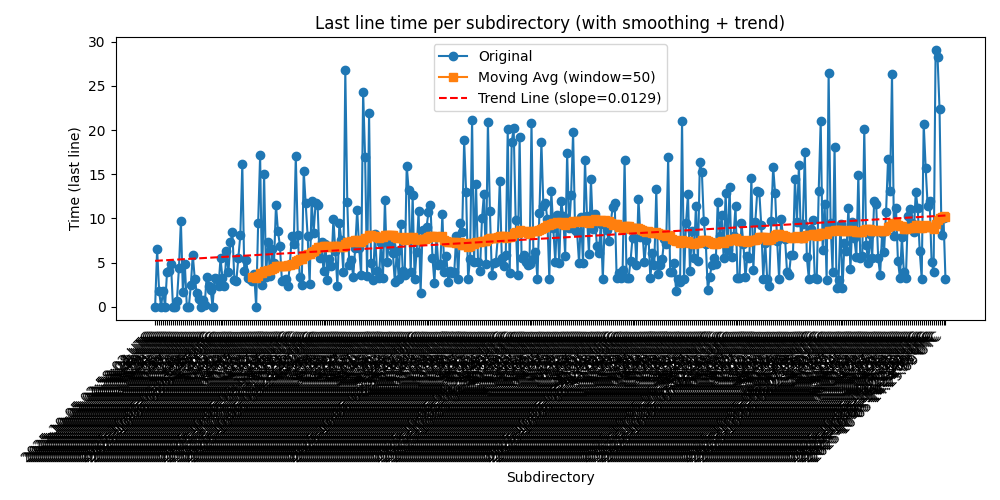
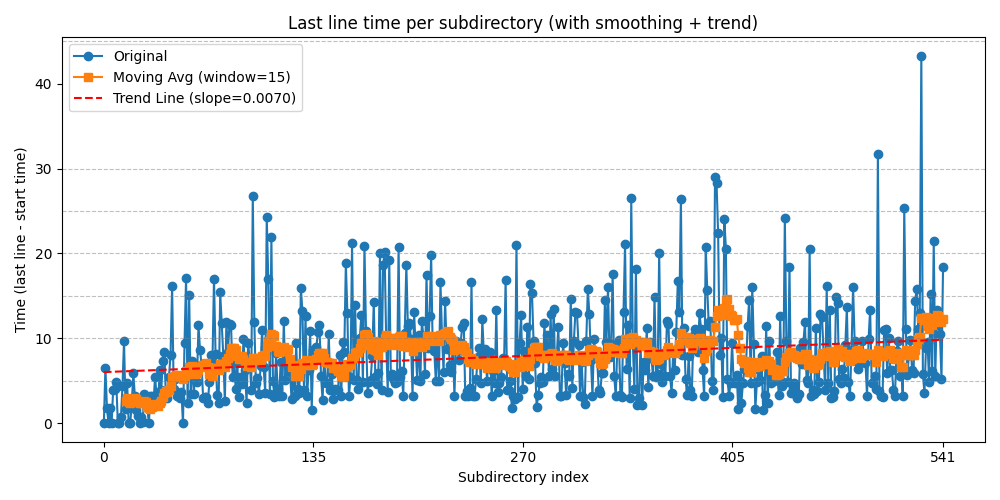
Minor Tweaks

diff --git a/src/graph.py b/src/graph.py
@@ -7,7 +7,6 @@ root_dir = "generated/runs/dataset"
 times = []
 dirs = []
 
-# Get subdirectories sorted by name
 subdirs = sorted([d for d in os.listdir(root_dir) if os.path.isdir(os.path.join(root_dir, d))])
 
 for subdir in subdirs:
@@ -33,33 +32,41 @@ for subdir in subdirs:
             except ValueError:
                 continue
 
-# Convert times to numpy for easier handling
 times = np.array(times)
 x = np.arange(len(times))  # numeric x-axis instead of subdir strings
 
-# --- Moving average smoothing ---
 def moving_average(x, w=5):
     return np.convolve(x, np.ones(w)/w, mode="valid")
 
-window_size = 50  # adjust for smoother / less smooth curve
+window_size = 15  # adjust for smoother / less smooth curve
 smoothed_times = moving_average(times, window_size)
 
-# --- Trend line (linear fit) ---
 coeffs = np.polyfit(x, times, 1)   # degree=1 for linear
 slope, intercept = coeffs[0], coeffs[1]
 trend = np.polyval(coeffs, x)
 
-# Plot
 plt.figure(figsize=(10,5))
-plt.plot(dirs, times, marker="o", label="Original")
-plt.plot(dirs[window_size-1:], smoothed_times, marker="s", label=f"Moving Avg (window={window_size})")
-plt.plot(dirs, trend, color="red", linestyle="--", label=f"Trend Line (slope={slope:.4f})")
+plt.plot(x, times, marker="o", label="Original")
+plt.plot(x[window_size-1:], smoothed_times, marker="s", label=f"Moving Avg (window={window_size})")
+plt.plot(x, trend, color="red", linestyle="--", label=f"Trend Line (slope={slope:.4f})")
 
-plt.xticks(rotation=45, ha="right")
-plt.xlabel("Subdirectory")
-plt.ylabel("Time (last line)")
+y_lines = range(5, 65, 5)
+for y in y_lines:
+    # Check if any data point lies within ±2.5 of this line
+    if np.any((times >= y - 2.5) & (times <= y + 2.5)):
+        plt.axhline(y=y, color='gray', linestyle='--', linewidth=0.8, alpha=0.5)
+
+num_points = len(x)
+if num_points > 0:
+    tick_positions = np.linspace(0, num_points - 1, 5, dtype=int)
+    tick_labels = [str(i) for i in tick_positions]
+    plt.xticks(tick_positions, tick_labels)
+else:
+    plt.xticks([])
+
+plt.xlabel("Subdirectory index")
+plt.ylabel("Time (last line - start time)")
 plt.title("Last line time per subdirectory (with smoothing + trend)")
 plt.legend()
 plt.tight_layout()
-# plt.show()
 plt.savefig("graph.png")

diff --git a/src/player.py b/src/player.py
@@ -40,7 +40,8 @@ class Player:
         # self.input_controller = MultiDeviceReader()
 
     def get_dataset_len(self):
-        return len(os.listdir("generated/runs/dataset"))
+        x = len(os.listdir("generated/runs/dataset"))
+        return x
 
     def start(self):
         if (self.current_run != None):
@@ -59,38 +60,11 @@ class Player:
         print(f"Stopping Recording...: {self.run_no}")
         self.current_run.close()
         self.current_run = None
-        if (self.run_no % 10 == 0):
+        if (self.run_no % ((self.get_dataset_len() + 10) / 10) == 0):
             trainer.main()
             self.model, self.device = ssai_model.load("generated/models/test.pth")
 
-    # def is_valid_kb_down_event(self, event):
-    #     if event.ev_type == "Key" and event.state == 1:
-    #         if event.code == "KEY_UP": return True
-    #         elif event.code == "KEY_DOWN": return True
-    #         elif event.code == "KEY_LEFT": return True
-    #         elif event.code == "KEY_RIGHT": return True
-    #         elif event.code == "KEY_Q": return True
-    #         elif event.code == "KEY_W": return True
-    #         elif event.code == "KEY_R": return True
-
-    #     return False
-    
     def tick(self):
-        # keypress = "NONE"
-
-        # events = self.input_controller.read()
-        # for event in events:
-        #     is_valid = self.is_valid_kb_down_event(event)
-        #     if (not is_valid):
-        #         continue
-            
-        #     keypress = event.code
-
-        #     # if (keypress == "KEY_Q"): 
-        #     #     self.stop()
-        #     #     return False
-            
-        #     break
         img_rgb = self.controller.capture()
         img_bgr = cv2.cvtColor(img_rgb, cv2.COLOR_RGB2BGR)
         self.rgb_queue.append(img_rgb)
@@ -123,15 +97,12 @@ class Player:
         return True
 
     def start_mainloop(self):
-        # print("Press Q to quit\n")
         while True:
             try:
                 if (not self.tick()):
                     break
             except KeyboardInterrupt as e:
                 break
-            # except Exception as e:
-            #     print(e)
         self.stop()
 
 

diff --git a/src/trainer.py b/src/trainer.py
@@ -16,8 +16,8 @@ import shutil
 from PIL import Image
 import pipeline
 
-MULTI_ELIM_PERCENTAGE_OF_SINGLE_ELIM = 5
-MULTI_ELIM_NOTHING_LIMIT = 0.35 # This percent of single elim can be nothing multi elims
+MULTI_ELIM_PERCENTAGE_OF_SINGLE_ELIM = 5.5
+MULTI_ELIM_NOTHING_LIMIT = 0.4 # This percent of single elim can be nothing multi elims
 
 def normalize_single_elims(single_elim_map):
     counts = [0] * 5
